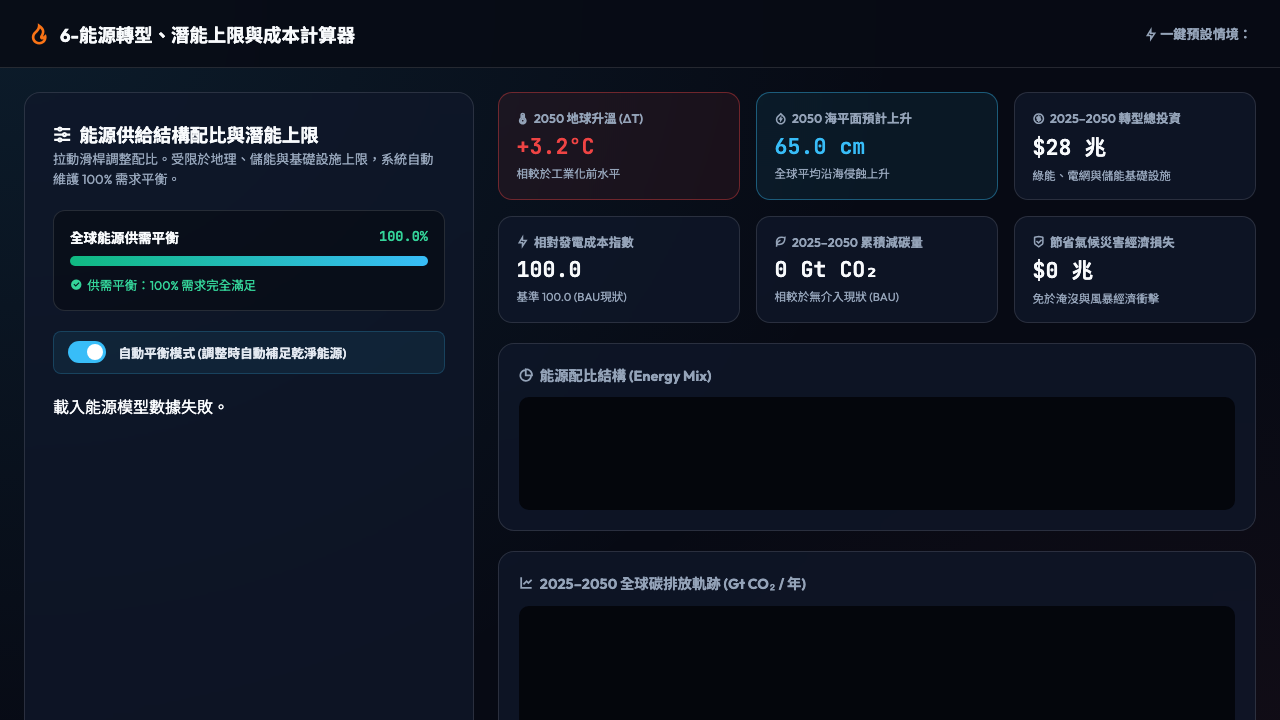
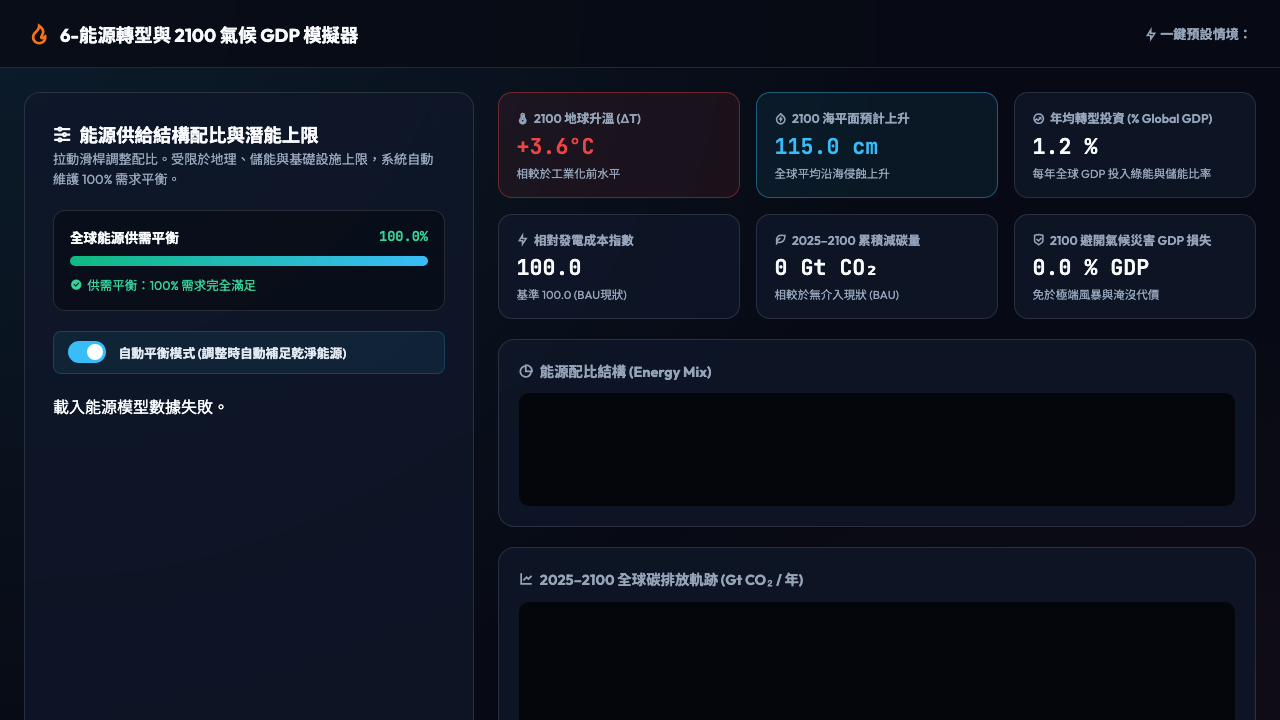
feat(v6): update simulation target horizon to 2100 and transition investment to % Global GDP

diff --git a/6-能源轉型與氣候變遷/app.js b/6-能源轉型與氣候變遷/app.js
@@ -49,16 +49,9 @@ document.addEventListener('DOMContentLoaded', async () => {
   }
 
   function initApp() {
-    // 1. Render Presets
     renderPresets();
-
-    // 2. Initialize Values from Default Preset (BAU)
     applyPreset('bau');
-
-    // 3. Render Sliders UI
     renderSliders();
-
-    // 4. Update Simulation
     updateSimulation();
   }
 
@@ -119,7 +112,6 @@ document.addEventListener('DOMContentLoaded', async () => {
 
       slidersList.appendChild(item);
 
-      // Event Listeners
       const track = item.querySelector(`#track_${s.id}`);
       const lockBtn = item.querySelector(`#lock_${s.id}`);
 
@@ -147,7 +139,6 @@ document.addEventListener('DOMContentLoaded', async () => {
       if (track) track.value = val;
       if (pct) pct.textContent = `${val.toFixed(0)}%`;
 
-      // Check max capacity cap violation
       const isExceeded = val > s.maxCap;
       if (item) item.classList.toggle('cap-exceeded', isExceeded);
       if (capBadge) {
@@ -165,7 +156,7 @@ document.addEventListener('DOMContentLoaded', async () => {
     });
   }
 
-  // --- Auto-Balancing Slider Math Engine with Max Capacity Caps ---
+  // --- Auto-Balancing Slider Engine ---
   function onSliderInput(changedId, newVal) {
     const isAutoBalance = autoBalanceToggle.checked;
 
@@ -176,12 +167,10 @@ document.addEventListener('DOMContentLoaded', async () => {
       return;
     }
 
-    // Auto-Balance Enabled Mode
     currentValues[changedId] = newVal;
 
     const cleanSourceIds = ['solar', 'wind', 'hydro', 'nuclear'];
     
-    // Calculate total sum of locked sources and changed source
     let fixedSum = 0;
     modelData.sources.forEach(s => {
       if (s.id === changedId || lockedState[s.id]) {
@@ -189,10 +178,8 @@ document.addEventListener('DOMContentLoaded', async () => {
       }
     });
 
-    // Remainder needed to achieve 100% total
     let remainder = Math.max(0, 100 - fixedSum);
 
-    // List of unlocked clean sources available to absorb remainder
     const availableTargets = cleanSourceIds.filter(id => id !== changedId && !lockedState[id]);
 
     if (availableTargets.length > 0) {
@@ -213,7 +200,6 @@ document.addEventListener('DOMContentLoaded', async () => {
       }
     }
 
-    // Adjust rounding error to ensure exact 100%
     let finalSum = modelData.sources.reduce((acc, s) => acc + currentValues[s.id], 0);
     if (finalSum !== 100 && availableTargets.length > 0) {
       const diff = 100 - finalSum;
@@ -228,15 +214,14 @@ document.addEventListener('DOMContentLoaded', async () => {
     updateSimulation();
   });
 
-  // --- Physics & Economic Cost Simulation Engine ---
+  // --- Physics & Economic Cost Simulation Engine (Target Horizon: 2100) ---
   function updateSimulation() {
-    // 1. Calculate Total Demand & Check Balance
     let totalDemand = 0;
     let weightedIntensity = 0;
     let cleanShare = 0;
 
     let totalLcoeSum = 0;
-    let totalCapexSum = 0;
+    let totalGdpShareSum = 0;
 
     modelData.sources.forEach(s => {
       const val = currentValues[s.id] || 0;
@@ -248,10 +233,9 @@ document.addEventListener('DOMContentLoaded', async () => {
       }
 
       totalLcoeSum += (val / 100) * s.lcoe;
-      totalCapexSum += (val / 100) * s.capex;
+      totalGdpShareSum += (val / 100) * (s.gdpShare || 0.5);
     });
 
-    // Update Demand Meter UI
     totalDemandVal.textContent = `${totalDemand.toFixed(1)}%`;
     totalDemandFill.style.width = `${Math.min(100, totalDemand)}%`;
 
@@ -263,67 +247,74 @@ document.addEventListener('DOMContentLoaded', async () => {
       demandStatusText.innerHTML = `<i class="ri-error-warning-fill"></i> 供需不平衡 (目前 ${totalDemand.toFixed(1)}%)，請調整或開啟自動平衡`;
     }
 
-    // 2. Climate Calculations
+    // 2100 Climate Math Calculations
     const bauIntensity = 575;
     const intensityRatio = weightedIntensity / bauIntensity;
 
-    const deltaTemp = Math.max(1.2, Math.min(4.5, 1.3 + (intensityRatio * 1.9)));
-    const deltaSea = Math.max(18, Math.min(95, 20 + 22 * Math.pow(Math.max(0, deltaTemp - 1.0), 1.3)));
+    // 2100 Earth Mean Temp Rise (delta T)
+    // BAU = +3.6°C to +4.0°C, Net-Zero = +1.4°C
+    const deltaTemp = Math.max(1.2, Math.min(5.0, 1.35 + (intensityRatio * 2.35)));
 
-    const annualBauCO2 = 42;
+    // 2100 Global Sea Level Rise (delta SL in cm)
+    // BAU = 115 cm, Net-Zero = 32 cm
+    const deltaSea = Math.max(22, Math.min(160, 24 + 48 * Math.pow(Math.max(0, deltaTemp - 1.0), 1.35)));
+
+    // Cumulative Gt CO2 Saved (2025 - 2100: 75 years)
+    const annualBauCO2 = 45;
     const currentAnnualCO2 = annualBauCO2 * intensityRatio;
-    const savedGtCO2 = Math.max(0, (annualBauCO2 - currentAnnualCO2) * 25);
+    const savedGtCO2 = Math.max(0, (annualBauCO2 - currentAnnualCO2) * 75);
 
-    // 3. Economic Cost & Financial Calculations
-    // 2025-2050 Global Energy Transition Investment (Trillion USD)
-    // BAU CapEx baseline ~ $28 Trillion, Net Zero CapEx ~ $62 Trillion
-    const transitionCapexTrillion = Math.round(28 + (cleanShare / 100) * 38);
+    // 3. Economic Cost as % of Global GDP (Annual % of Global GDP)
+    // BAU CapEx ~ 1.2% GDP/yr, Net-Zero ~ 3.6% GDP/yr
+    const annualGdpInvestment = Math.max(1.0, totalGdpShareSum);
 
     // Relative Electricity Cost Index (LCOE index, BAU Baseline = 100.0)
-    // Add grid storage multiplier if variable renewables (solar+wind > 45%)
     const varRenewableShare = (currentValues['solar'] || 0) + (currentValues['wind'] || 0);
     const storagePenalty = varRenewableShare > 45 ? (varRenewableShare - 45) * 0.45 : 0;
     const relativeLcoeIndex = ((totalLcoeSum / 68.5) * 100) + storagePenalty;
 
-    // Climate Damage Cost Saved (Trillion USD)
-    // BAU Climate damage at +3.2°C ~ $180 Trillion USD by 2050
-    // Net Zero at +1.4°C saves ~ $142 Trillion USD
-    const climateDamageTrillion = Math.round((Math.pow(deltaTemp / 1.4, 2.2) - 1) * 45);
-    const damageSavedTrillion = Math.max(0, Math.round(180 - climateDamageTrillion));
+    // Climate Damage Cost Avoided (% of Global GDP per year by 2100)
+    // BAU Climate damage loss at +3.6°C ~ 18.0% Global GDP/yr by 2100 (IPCC WGIII / Stern Review)
+    const gdpDamageLossPct = Math.max(1.5, Math.pow(deltaTemp / 1.35, 2.5) * 2.2);
+    const gdpDamageSavedPct = Math.max(0, 18.0 - gdpDamageLossPct);
 
     // Update Metrics UI
     metricTemp.textContent = `+${deltaTemp.toFixed(1)}°C`;
     metricSea.textContent = `${deltaSea.toFixed(1)} cm`;
-    metricCapex.textContent = `$${transitionCapexTrillion} 兆 USD`;
-    metricCapexDesc.textContent = `2025-2050 綠能與電網轉型建置總額`;
+
+    metricCapex.textContent = `${annualGdpInvestment.toFixed(1)} %`;
+    metricCapexDesc.textContent = `每年全球 GDP 投入綠能建置與電網`;
 
     metricLcoe.textContent = `${relativeLcoeIndex.toFixed(1)}`;
     metricLcoeDesc.textContent = `相對發電成本指數 (BAU基準 100.0)`;
 
     metricSaved.textContent = `${Math.round(savedGtCO2)} Gt CO₂`;
-    metricDamageSaved.textContent = `$${damageSavedTrillion} 兆 USD`;
-    metricDamageSavedDesc.textContent = `避免極端氣候與淹沒損失效益`;
+
+    metricDamageSaved.textContent = `${gdpDamageSavedPct.toFixed(1)} % GDP`;
+    metricDamageSavedDesc.textContent = `2100 年避開之全球氣候災難經濟損失`;
 
     // Alert Colors & Descriptions
     if (deltaTemp <= 1.5) {
-      metricTempDesc.textContent = "🟢 達成巴黎協定 1.5°C 安全控制線";
+      metricTempDesc.textContent = "🟢 2100 達成巴黎協定 1.5°C 安全控制線";
     } else if (deltaTemp <= 2.0) {
-      metricTempDesc.textContent = "🟠 巴黎協定 2.0°C 上限控制線";
+      metricTempDesc.textContent = "🟠 2100 巴黎協定 2.0°C 上限控制線";
     } else {
-      metricTempDesc.textContent = "🔴 無介入高風險氣候災難軌跡";
+      metricTempDesc.textContent = "🔴 2100 高風險氣候失控衝擊軌跡";
     }
 
-    if (deltaSea <= 30) {
-      metricSeaDesc.textContent = "🟢 沿海防禦可控制範圍";
+    if (deltaSea <= 40) {
+      metricSeaDesc.textContent = "🟢 2100 沿海防禦可控制範圍";
     } else {
-      metricSeaDesc.textContent = "🔴 沿海大都會與島國淹沒高風險";
+      metricSeaDesc.textContent = "🔴 2100 沿海大都會與低窪島國淹沒風險";
     }
 
-    // Update Thermometer & Sea Wave Fills
-    const thermoPct = Math.min(100, Math.max(15, ((deltaTemp - 1.0) / 3.0) * 80 + 15));
+    // Update Thermometer & Sea Wave Fills (2100 Scale)
+    // Thermometer 1.0°C - 4.5°C mapped to 20% - 95%
+    const thermoPct = Math.min(100, Math.max(15, ((deltaTemp - 1.0) / 3.5) * 80 + 15));
     thermoFill.style.height = `${thermoPct}%`;
 
-    const seaPct = Math.min(100, Math.max(15, ((deltaSea - 20) / 60) * 80 + 15));
+    // Sea level 20cm - 130cm mapped to 20% - 95%
+    const seaPct = Math.min(100, Math.max(15, ((deltaSea - 20) / 110) * 80 + 15));
     seaWaveFill.style.height = `${seaPct}%`;
 
     // Render Canvas Visualizations
@@ -382,7 +373,7 @@ document.addEventListener('DOMContentLoaded', async () => {
     });
   }
 
-  // --- Canvas Rendering 2: 2025 - 2050 CO2 Trajectory ---
+  // --- Canvas Rendering 2: 2025 - 2100 CO2 Trajectory ---
   function drawTrajectoryCanvas(intensityRatio) {
     const width = trajectoryCanvas.width;
     const height = trajectoryCanvas.height;
@@ -392,8 +383,8 @@ document.addEventListener('DOMContentLoaded', async () => {
     trajCtx.fillStyle = '#04060c';
     trajCtx.fillRect(0, 0, width, height);
 
-    for (let g = 0; g <= 50; g += 10) {
-      const py = height - 25 - (g / 50) * (height - 45);
+    for (let g = 0; g <= 60; g += 15) {
+      const py = height - 25 - (g / 60) * (height - 45);
       trajCtx.beginPath();
       trajCtx.moveTo(45, py);
       trajCtx.lineTo(width - 25, py);
@@ -405,21 +396,21 @@ document.addEventListener('DOMContentLoaded', async () => {
       trajCtx.fillText(`${g} Gt`, 12, py + 3);
     }
 
-    const years = [2025, 2030, 2035, 2040, 2045, 2050];
+    const years = [2025, 2040, 2060, 2080, 2100];
     years.forEach(y => {
-      const px = 45 + ((y - 2025) / 25) * (width - 70);
+      const px = 45 + ((y - 2025) / 75) * (width - 70);
       trajCtx.fillStyle = 'rgba(255,255,255,0.4)';
       trajCtx.font = '10px "JetBrains Mono", monospace';
       trajCtx.fillText(`${y}`, px - 10, height - 8);
     });
 
-    // BAU Line
+    // BAU Line (2025 - 2100)
     trajCtx.beginPath();
     trajCtx.setLineDash([5, 4]);
-    for (let yr = 2025; yr <= 2050; yr++) {
-      const px = 45 + ((yr - 2025) / 25) * (width - 70);
-      const bauCO2 = 40 + ((yr - 2025) / 25) * 5;
-      const py = height - 25 - (bauCO2 / 50) * (height - 45);
+    for (let yr = 2025; yr <= 2100; yr += 2) {
+      const px = 45 + ((yr - 2025) / 75) * (width - 70);
+      const bauCO2 = 42 + ((yr - 2025) / 75) * 8; // 42 -> 50 Gt
+      const py = height - 25 - (bauCO2 / 60) * (height - 45);
       if (yr === 2025) trajCtx.moveTo(px, py);
       else trajCtx.lineTo(px, py);
     }
@@ -428,15 +419,15 @@ document.addEventListener('DOMContentLoaded', async () => {
     trajCtx.stroke();
     trajCtx.setLineDash([]);
 
-    // Current Mix Curve
+    // Current Mix Curve (2025 - 2100)
     trajCtx.beginPath();
-    for (let yr = 2025; yr <= 2050; yr++) {
-      const px = 45 + ((yr - 2025) / 25) * (width - 70);
-      const bauCO2 = 40 + ((yr - 2025) / 25) * 5;
-      const transitionFactor = 1 - ((yr - 2025) / 25) * (1 - intensityRatio);
+    for (let yr = 2025; yr <= 2100; yr += 2) {
+      const px = 45 + ((yr - 2025) / 75) * (width - 70);
+      const bauCO2 = 42 + ((yr - 2025) / 75) * 8;
+      const transitionFactor = 1 - Math.min(1, ((yr - 2025) / 30)) * (1 - intensityRatio);
       const currentCO2 = Math.max(0, bauCO2 * transitionFactor);
       
-      const py = height - 25 - (currentCO2 / 50) * (height - 45);
+      const py = height - 25 - (currentCO2 / 60) * (height - 45);
       if (yr === 2025) trajCtx.moveTo(px, py);
       else trajCtx.lineTo(px, py);
     }

diff --git a/6-能源轉型與氣候變遷/index.html b/6-能源轉型與氣候變遷/index.html
@@ -3,7 +3,7 @@
 <head>
   <meta charset="UTF-8">
   <meta name="viewport" content="width=device-width, initial-scale=1.0">
-  <title>全球能源轉型、潛能上限與經濟成本計算器 (Explorable Explanation)</title>
+  <title>全球能源轉型、潛能上限與 2100 氣候 GDP 計算器 (Explorable Explanation)</title>
   <!-- Google Fonts -->
   <link rel="preconnect" href="https://fonts.googleapis.com">
   <link rel="preconnect" href="https://fonts.gstatic.com" crossorigin>
@@ -18,7 +18,7 @@
   <header class="calc-header">
     <div class="brand">
       <i class="ri-fire-line logo-icon"></i>
-      <span class="brand-title">6-能源轉型、潛能上限與成本計算器</span>
+      <span class="brand-title">6-能源轉型與 2100 氣候 GDP 模擬器</span>
     </div>
     <div class="preset-selectors" id="presetContainer">
       <span class="preset-label"><i class="ri-flashlight-line"></i> 一鍵預設情境：</span>
@@ -71,21 +71,21 @@
       <!-- Top Key Climate & Economic Metrics Cards (6 Cards) -->
       <div class="metrics-grid">
         <div class="metric-card alert-temp">
-          <div class="m-title"><i class="ri-temp-hot-line"></i> 2050 地球升溫 (&Delta;T)</div>
-          <div class="m-val" id="metricTemp">+3.2°C</div>
+          <div class="m-title"><i class="ri-temp-hot-line"></i> 2100 地球升溫 (&Delta;T)</div>
+          <div class="m-val" id="metricTemp">+3.6°C</div>
           <div class="m-desc" id="metricTempDesc">相較於工業化前水平</div>
         </div>
 
         <div class="metric-card alert-sea">
-          <div class="m-title"><i class="ri-water-flash-line"></i> 2050 海平面預計上升</div>
-          <div class="m-val" id="metricSea">65.0 cm</div>
+          <div class="m-title"><i class="ri-water-flash-line"></i> 2100 海平面預計上升</div>
+          <div class="m-val" id="metricSea">115.0 cm</div>
           <div class="m-desc" id="metricSeaDesc">全球平均沿海侵蝕上升</div>
         </div>
 
         <div class="metric-card">
-          <div class="m-title"><i class="ri-money-dollar-circle-line"></i> 2025–2050 轉型總投資</div>
-          <div class="m-val" id="metricCapex">$28 兆</div>
-          <div class="m-desc" id="metricCapexDesc">綠能、電網與儲能基礎設施</div>
+          <div class="m-title"><i class="ri-funds-line"></i> 年均轉型投資 (% Global GDP)</div>
+          <div class="m-val" id="metricCapex">1.2 %</div>
+          <div class="m-desc" id="metricCapexDesc">每年全球 GDP 投入綠能與儲能比率</div>
         </div>
 
         <div class="metric-card">
@@ -95,15 +95,15 @@
         </div>
 
         <div class="metric-card">
-          <div class="m-title"><i class="ri-leaf-line"></i> 2025–2050 累積減碳量</div>
+          <div class="m-title"><i class="ri-leaf-line"></i> 2025–2100 累積減碳量</div>
           <div class="m-val" id="metricSaved">0 Gt CO₂</div>
           <div class="m-desc" id="metricSavedDesc">相較於無介入現狀 (BAU)</div>
         </div>
 
         <div class="metric-card">
-          <div class="m-title"><i class="ri-shield-check-line"></i> 節省氣候災害經濟損失</div>
-          <div class="m-val" id="metricDamageSaved">$0 兆</div>
-          <div class="m-desc" id="metricDamageSavedDesc">免於淹沒與風暴經濟衝擊</div>
+          <div class="m-title"><i class="ri-shield-check-line"></i> 2100 避開氣候災害 GDP 損失</div>
+          <div class="m-val" id="metricDamageSaved">0.0 % GDP</div>
+          <div class="m-desc" id="metricDamageSavedDesc">免於極端風暴與淹沒代價</div>
         </div>
       </div>
 
@@ -115,10 +115,10 @@
         <canvas id="energyMixCanvas" width="760" height="120"></canvas>
       </div>
 
-      <!-- 2025 - 2050 CO2 Trajectory Chart -->
+      <!-- 2025 - 2100 CO2 Trajectory Chart -->
       <div class="viz-box">
         <div class="box-header">
-          <h3><i class="ri-line-chart-line"></i> 2025–2050 全球碳排放軌跡 (Gt CO₂ / 年)</h3>
+          <h3><i class="ri-line-chart-line"></i> 2025–2100 全球碳排放軌跡 (Gt CO₂ / 年)</h3>
         </div>
         <canvas id="trajectoryCanvas" width="760" height="170"></canvas>
       </div>
@@ -126,14 +126,14 @@
       <!-- Thermometer & Sea Level Meter Visualizer -->
       <div class="viz-box gauge-flex-box">
         <div class="gauge-card">
-          <div class="gauge-title"><i class="ri-thermometer-line"></i> 2050 地球升溫溫度計</div>
+          <div class="gauge-title"><i class="ri-thermometer-line"></i> 2100 地球升溫溫度計</div>
           <div class="thermometer-visual">
             <div class="thermo-tube">
-              <div class="thermo-fill" id="thermoFill" style="height: 64%;"></div>
+              <div class="thermo-fill" id="thermoFill" style="height: 70%;"></div>
             </div>
             <div class="thermo-marks">
-              <span>+4.0°C (災難)</span>
-              <span>+3.0°C (現狀)</span>
+              <span>+4.5°C (失控)</span>
+              <span>+3.6°C (BAU 現狀)</span>
               <span>+2.0°C (巴黎上限)</span>
               <span>+1.5°C (淨零安全線)</span>
             </div>
@@ -141,16 +141,16 @@
         </div>
 
         <div class="gauge-card">
-          <div class="gauge-title"><i class="ri-direction-line"></i> 2050 海平面上升深度計</div>
+          <div class="gauge-title"><i class="ri-direction-line"></i> 2100 海平面上升深度計</div>
           <div class="sea-meter-visual">
             <div class="sea-wave-box">
-              <div class="sea-wave-fill" id="seaWaveFill" style="height: 65%;"></div>
+              <div class="sea-wave-fill" id="seaWaveFill" style="height: 75%;"></div>
             </div>
             <div class="sea-marks">
-              <span>80 cm (嚴重淹沒)</span>
-              <span>65 cm (BAU 現狀)</span>
-              <span>38 cm (2°C 路徑)</span>
-              <span>24 cm (淨零 1.5°C)</span>
+              <span>130 cm (災難淹沒)</span>
+              <span>115 cm (BAU 現狀)</span>
+              <span>52 cm (2°C 路徑)</span>
+              <span>32 cm (淨零 1.5°C)</span>
             </div>
           </div>
         </div>